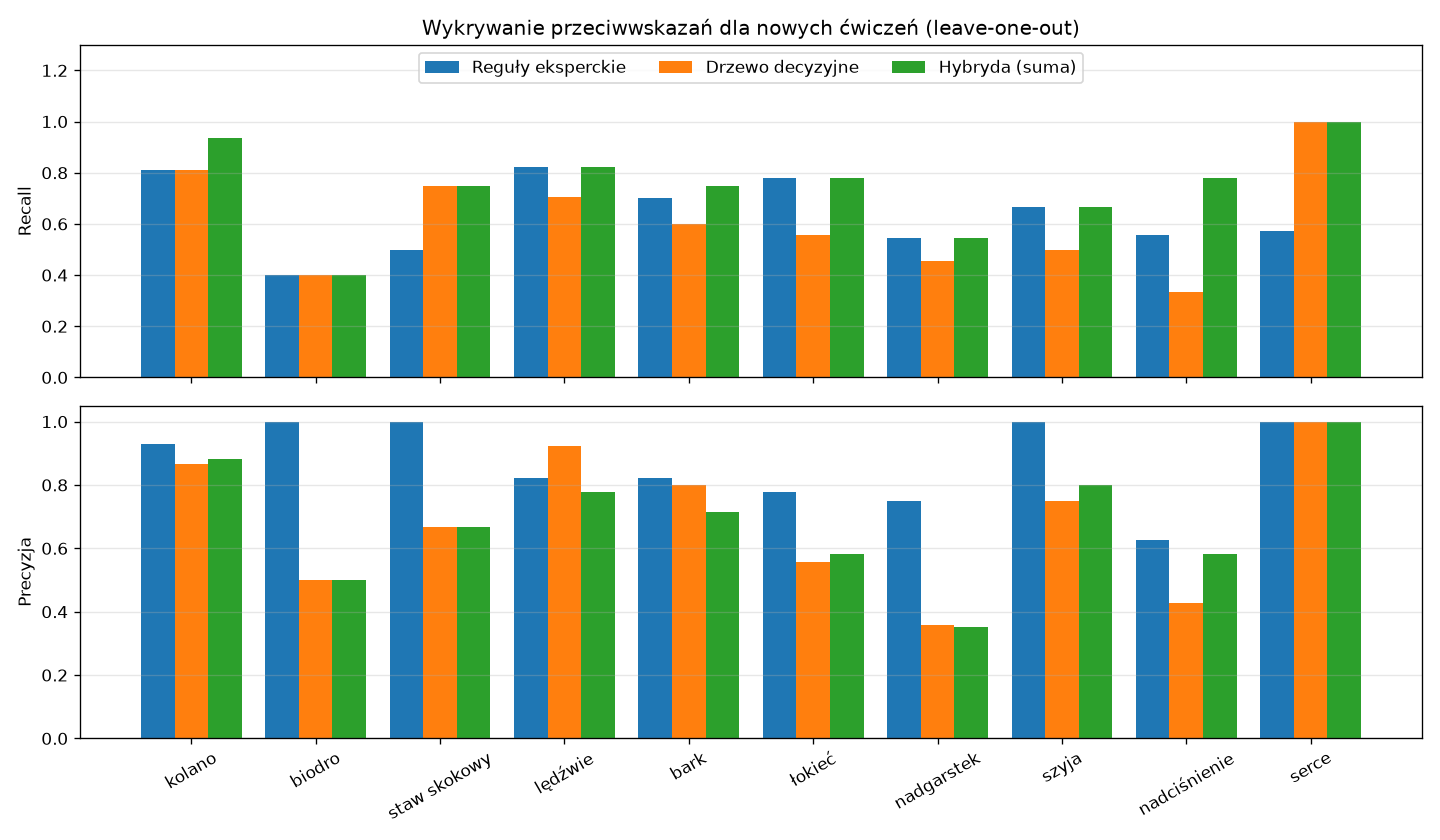
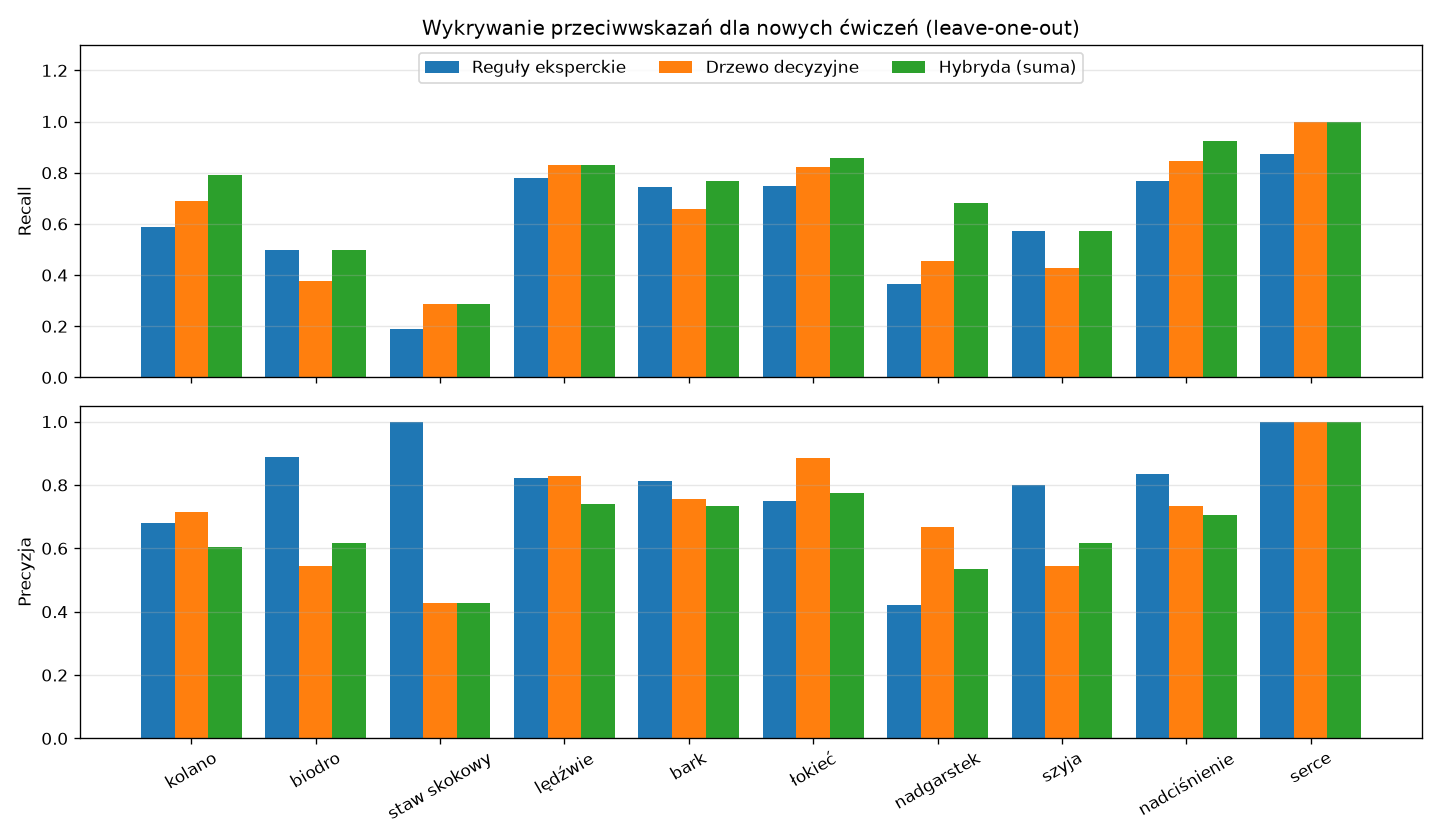
Przeliczono eksperymenty na atlasie 164 ćwiczeń (#21)

diff --git a/docs/EXPERIMENTS.md b/docs/EXPERIMENTS.md
@@ -177,11 +177,11 @@ Wyniki (`docs/experiments/significance.csv`). W komórce: metoda lepsza w danej 
 grupa mięśniowa, sprzęt, trudność), np. przy dodawaniu do atlasu nowego ćwiczenia?
 
 **Metodyka:**
-- Wzorzec: ręczne etykiety przeciwwskazań 67 ćwiczeń atlasu (`app/data/exercises.json`).
+- Wzorzec: ręczne etykiety przeciwwskazań 164 ćwiczeń atlasu (`app/data/exercises.json`).
 - Walidacja krzyżowa *leave-one-out*: każde ćwiczenie po kolei jest traktowane jak nowe,
-  a detektor uczy się na pozostałych 66.
-- Każda para (ćwiczenie, ograniczenie) to jedna decyzja binarna, łącznie 670 decyzji
-  (108 przeciwwskazań w atlasie). Metryki: precyzja, recall, F1 (mikro) oraz liczba
+  a detektor uczy się na pozostałych 163.
+- Każda para (ćwiczenie, ograniczenie) to jedna decyzja binarna, łącznie 1640 decyzji
+  (268 przeciwwskazań w atlasie). Metryki: precyzja, recall, F1 (mikro) oraz liczba
   przeoczonych przeciwwskazań i fałszywych alarmów.
 - Porównane detektory (`app/ml/contraindication_detection.py`):
   - **reguły eksperckie:** 5 reguł opartych na budowie ćwiczenia (np. przysiad → kolano,
@@ -193,27 +193,37 @@ Wyniki (`docs/experiments/contraindications.csv`):
 
 | Detektor           | Precyzja | Recall | F1    | Przeoczone | Fałszywe alarmy | Całe ćwiczenie poprawnie |
 |--------------------|----------|--------|-------|------------|-----------------|--------------------------|
-| Reguły eksperckie  | 0,839    | 0,676  | 0,749 | 35         | 14              | 46%                      |
-| Drzewo decyzyjne   | 0,701    | 0,630  | 0,663 | 40         | 29              | 39%                      |
-| Hybryda (suma)     | 0,680    | 0,769  | 0,722 | 25         | 39              | 33%                      |
+| Reguły eksperckie  | 0,784    | 0,649  | 0,710 | 94         | 48              | 45%                      |
+| Drzewo decyzyjne   | 0,755    | 0,679  | 0,715 | 86         | 59              | 44%                      |
+| Hybryda (suma)     | 0,697    | 0,754  | 0,724 | 66         | 88              | 43%                      |
 
 ![Wykrywanie przeciwwskazań](experiments/contraindications.png)
 
 **Obserwacje:**
 
-1. Reguły eksperckie mają najlepszą precyzję i F1. Przy 67 przykładach drzewo nie ma z czego
-   nauczyć się zależności, które ekspert zapisuje w kilku regułach.
-2. Drzewo wygrywa tam, gdzie zależność jest prosta i spójna w atlasie: choroba serca
-   (recall 1,00 wobec 0,57 reguł) i staw skokowy.
-3. Hybryda ma najwyższy recall (0,769, o 10 przeoczeń mniej niż reguły) kosztem precyzji.
+1. Wszystkie trzy detektory mają zbliżone F1 (0,710–0,724), żaden nie jest wyraźnie lepszy.
+   Reguły zachowują najwyższą precyzję (najmniej fałszywych alarmów), a hybryda najwyższy recall.
+2. **Wpływ rozbudowy atlasu.** W pierwszej wersji atlasu (67 ćwiczeń) reguły miały wyraźnie
+   najwyższe F1 (0,749 wobec 0,663 drzewa). Po rozbudowie do 164 ćwiczeń F1 drzewa wzrosło
+   do 0,715, bo ma więcej przykładów do nauki, a F1 reguł spadło do 0,710. Metoda ucząca się
+   zyskuje na większym zbiorze danych, a reguły zapisane raz przez eksperta nie.
+3. **Reguły słabo uogólniają się na ćwiczenia, których autor nie przewidział.** Nowe ćwiczenia
+   ujawniły luki reguł, np. reguła „ćwiczenie izolowane na nogi → kolano” nie pasuje do wspięć
+   na palce (staw skokowy) ani przywodzenia nóg (biodro). Recall reguł dla stawu skokowego
+   spadł z 0,50 do 0,19, a precyzja dla kolana z 0,93 do 0,68. Drzewo wygrywa tam, gdzie atlas
+   zawiera wiele spójnych przykładów: łokieć (F1 0,85 wobec 0,75 reguł), nadgarstek i choroba
+   serca (recall 1,00).
+4. Hybryda ma najwyższy recall (0,754, o 28 przeoczeń mniej niż reguły) kosztem precyzji.
    W kontekście bezpieczeństwa to korzystna wymiana: fałszywy alarm tylko zawęża wybór
    ćwiczeń, a przeoczenie oznacza ryzyko kontuzji.
-4. Żadna metoda nie jest wystarczająco dokładna, by działać bez człowieka: nawet hybryda
-   przeocza ok. 1/4 przeciwwskazań. Najsłabiej wykrywane są biodro i nadgarstek, które zależą
-   od szczegółów techniki, a nie od ogólnych cech ćwiczenia.
-5. Górną granicę trafności wyznaczają same dane: 14 z 67 ćwiczeń ma identyczne cechy jak inne
-   ćwiczenie, a różne przeciwwskazania (np. przysiad goblet i przysiad sumo z kettlebell
-   różnią się obciążeniem biodra). Żadna metoda oparta na tych cechach nie rozróżni ich.
+5. Żadna metoda nie jest wystarczająco dokładna, by działać bez człowieka: nawet hybryda
+   przeocza ok. 1/4 przeciwwskazań. Najsłabiej wykrywane są staw skokowy, biodro i szyja,
+   które zależą od szczegółów techniki, a nie od ogólnych cech ćwiczenia.
+6. Górną granicę trafności wyznaczają same dane: 114 ze 164 ćwiczeń ma identyczne cechy jak
+   inne ćwiczenie, a 80 z nich ma przy tym inne przeciwwskazania. Przykład: siedem izolowanych
+   ćwiczeń na nogi na maszynie dla początkujących ma te same cechy, a obciąża kolano (wyprosty,
+   uginanie nóg), biodro (przywodzenie) albo staw skokowy (wspięcia na palce). Żadna metoda oparta na tych cechach
+   nie rozróżni takich ćwiczeń; poprawa wymagałaby cech dokładniej opisujących ruch.
 
 **Wniosek projektowy:** w aplikacji detektor hybrydowy służy wyłącznie jako **podpowiedź**
 przy dodawaniu ćwiczenia (`POST /api/v1/exercises/suggest-contraindications`). Plan treningowy
@@ -229,7 +239,7 @@ w planie nie przepuszcza żadnego ćwiczenia przeciwwskazanego według atlasu.
   cel, 2–5 dni treningowych, 30–90 minut, dostępny sprzęt (każdy rodzaj z prawdopodobieństwem 50%)
   i u połowy osób jedno lub dwa ograniczenia zdrowotne.
 - Dla każdej osoby generator buduje **plan wzorcowy** (dla prawdziwego poziomu) i plan dla poziomu
-  przewidzianego przez klasyfikator. Atlas: 67 ćwiczeń z `app/data/exercises.json`.
+  przewidzianego przez klasyfikator. Atlas: 164 ćwiczenia z `app/data/exercises.json`.
 - Metryki:
   - **plan dla prawdziwego poziomu:** część osób, których plan jest identyczny z wzorcowym,
   - **plan za trudny / za łatwy:** plan zbudowany dla wyższego / niższego poziomu,
@@ -243,15 +253,15 @@ Wyniki: średnia z 5 ziaren (`docs/experiments/plan_quality.csv`).
 
 | Pominięte odpowiedzi | Klasyfikator     | Plan dla prawdziwego poziomu | Za trudny | Za łatwy | Ćwiczenie trudniejsze niż poziom | Podobieństwo ćwiczeń |
 |----------------------|------------------|------------------------------|-----------|----------|----------------------------------|----------------------|
-| 0%                   | System regułowy  | 0,806                        | 0,149     | 0,045    | 0,127                            | 0,935                |
-| 0%                   | Drzewo decyzyjne | 0,825                        | 0,081     | 0,094    | 0,067                            | 0,943                |
-| 0%                   | Sieć neuronowa   | 0,879                        | 0,061     | 0,060    | 0,051                            | 0,961                |
-| 60%                  | System regułowy  | 0,732                        | 0,125     | 0,143    | 0,104                            | 0,909                |
-| 60%                  | Drzewo decyzyjne | 0,703                        | 0,168     | 0,129    | 0,150                            | 0,901                |
-| 60%                  | Sieć neuronowa   | 0,798                        | 0,093     | 0,109    | 0,079                            | 0,933                |
-| 100%                 | System regułowy  | 0,675                        | 0,068     | 0,257    | 0,055                            | 0,886                |
-| 100%                 | Drzewo decyzyjne | 0,484                        | 0,315     | 0,200    | 0,292                            | 0,820                |
-| 100%                 | Sieć neuronowa   | 0,648                        | 0,180     | 0,172    | 0,161                            | 0,882                |
+| 0%                   | System regułowy  | 0,806                        | 0,149     | 0,045    | 0,127                            | 0,928                |
+| 0%                   | Drzewo decyzyjne | 0,825                        | 0,081     | 0,094    | 0,067                            | 0,938                |
+| 0%                   | Sieć neuronowa   | 0,879                        | 0,061     | 0,060    | 0,051                            | 0,957                |
+| 60%                  | System regułowy  | 0,732                        | 0,125     | 0,143    | 0,104                            | 0,900                |
+| 60%                  | Drzewo decyzyjne | 0,703                        | 0,168     | 0,129    | 0,150                            | 0,891                |
+| 60%                  | Sieć neuronowa   | 0,798                        | 0,093     | 0,109    | 0,079                            | 0,926                |
+| 100%                 | System regułowy  | 0,675                        | 0,068     | 0,257    | 0,056                            | 0,875                |
+| 100%                 | Drzewo decyzyjne | 0,484                        | 0,315     | 0,200    | 0,292                            | 0,802                |
+| 100%                 | Sieć neuronowa   | 0,648                        | 0,180     | 0,172    | 0,161                            | 0,871                |
 
 We wszystkich przebiegach liczba ćwiczeń przeciwwskazanych wyniosła **0**.
 
@@ -263,7 +273,10 @@ We wszystkich przebiegach liczba ćwiczeń przeciwwskazanych wyniosła **0**.
    obowiązkowym, a filtr przeciwwskazań działa niezależnie od klasyfikatora, więc żaden plan nie
    zawierał ćwiczenia przeciwwskazanego, nawet przy błędnie wyznaczonym poziomie.
 2. **Błędny poziom zmienia plan w niewielkim stopniu.** Nawet przy samych danych podstawowych
-   plany mają 82–89% wspólnych ćwiczeń z planem wzorcowym. Ćwiczenia dla poziomu niższego są
+   plany mają 80–88% wspólnych ćwiczeń z planem wzorcowym. Po rozbudowie atlasu z 67 do 164
+   ćwiczeń podobieństwo spadło tylko o 0,4–1,8 punktu procentowego: przy większym wyborze
+   ćwiczeń zmiana poziomu częściej podmienia ćwiczenie na inne, ale trafność poziomu i odsetki
+   planów za trudnych i za łatwych są identyczne, bo zależą tylko od klasyfikatora. Ćwiczenia dla poziomu niższego są
    dostępne także na wyższych poziomach, więc pomyłka o jeden poziom zmienia tylko część ćwiczeń
    (i liczbę serii u początkujących).
 3. **Kierunek błędu zależy od metody.** System regułowy przy brakach danych częściej zaniża poziom
@@ -276,7 +289,8 @@ We wszystkich przebiegach liczba ćwiczeń przeciwwskazanych wyniosła **0**.
 
 **Wniosek projektowy:** przy kompletnych danych najlepsze plany daje sieć neuronowa, a przy
 bardzo niekompletnych system regułowy, który myli się „w bezpieczną stronę”. Uzasadnia to
-domyślny wybór sieci neuronowej i informowanie użytkownika o niskiej kompletności danych.
+dobór klasyfikatora do liczby pustych odpowiedzi w aplikacji: sieć neuronowa, a przy samych
+danych podstawowych system regułowy (opis w [ML.md](ML.md#uczenie-i-wyniki-wstępne)).
 
 ## Czas odpowiedzi API
 
@@ -286,7 +300,7 @@ klasyfikacja, generowanie planu i zamiana wyniku na JSON.
 
 **Metodyka** (`experiments/api_latency.py`):
 - Kompletny profil (wszystkie testy sprawności, ograniczenie kolana, 4 dni treningowe, sprzęt),
-  atlas 67 ćwiczeń w bazie SQLite.
+  atlas 164 ćwiczeń w bazie SQLite.
 - Dla każdego endpointu 5 żądań rozgrzewkowych (wczytanie modeli z dysku, połączenie), które nie
   są liczone, a potem właściwy pomiar.
 - Miary: średnia, mediana (p50), 95. percentyl (p95: 95% żądań było szybszych) i maksimum.
@@ -294,41 +308,52 @@ klasyfikacja, generowanie planu i zamiana wyniku na JSON.
   - **lokalnie:** aplikacja w tym samym procesie, bez sieci (200 żądań na endpoint),
     czyli czas pracy samego serwera,
   - **wdrożenie:** aplikacja na Render (plan darmowy, Frankfurt), żądania z komputera w Polsce
-    (30 żądań na endpoint, pomiar z 21.10.2026), czyli czas widziany przez użytkownika.
+    (30 żądań na endpoint, pomiar z 8.11.2026), czyli czas widziany przez użytkownika.
 
 Wyniki lokalne (`docs/experiments/api_latency.csv`), w milisekundach:
 
 | Żądanie                                   | Średnia | p50  | p95  | Maks. |
 |-------------------------------------------|---------|------|------|-------|
-| `GET /health`                             | 0,79    | 0,76 | 0,92 | 1,45  |
-| `GET /api/v1/questionnaire`               | 0,83    | 0,80 | 1,00 | 1,24  |
-| `POST /api/v1/questionnaire`              | 1,86    | 1,72 | 2,30 | 8,82  |
-| `GET .../fitness-level?method=rules`      | 1,74    | 1,68 | 1,96 | 3,17  |
-| `GET .../fitness-level?method=decision_tree` | 2,83 | 2,68 | 3,79 | 5,42  |
-| `GET .../fitness-level?method=mlp`        | 3,24    | 2,94 | 4,56 | 7,98  |
-| `GET .../plan?method=mlp`                 | 4,29    | 4,08 | 5,33 | 6,41  |
+| `GET /health`                             | 0,76    | 0,76 | 0,83 | 1,37  |
+| `GET /api/v1/questionnaire`               | 0,81    | 0,80 | 0,89 | 0,98  |
+| `POST /api/v1/questionnaire`              | 1,68    | 1,66 | 1,84 | 2,14  |
+| `GET .../fitness-level?method=rules`      | 1,71    | 1,68 | 1,93 | 2,22  |
+| `GET .../fitness-level?method=decision_tree` | 2,73 | 2,67 | 3,13 | 4,57  |
+| `GET .../fitness-level?method=mlp`        | 2,91    | 2,86 | 3,19 | 3,82  |
+| `GET .../plan?method=mlp`                 | 5,25    | 4,99 | 5,78 | 37,50 |
 
 Wyniki dla wdrożenia, w milisekundach:
 
 | Żądanie                                   | Średnia | p50  | p95   | Maks. |
 |-------------------------------------------|---------|------|-------|-------|
-| `GET /health`                             | 60      | 53   | 124   | 137   |
-| `POST /api/v1/questionnaire`              | 68      | 59   | 134   | 150   |
-| `GET .../fitness-level?method=rules`      | 63      | 55   | 122   | 141   |
-| `GET .../fitness-level?method=mlp`        | 96      | 65   | 182   | 431   |
-| `GET .../plan?method=mlp`                 | 100     | 96   | 171   | 228   |
+| `GET /health`                             | 66      | 53   | 140   | 148   |
+| `GET /api/v1/questionnaire`               | 59      | 52   | 106   | 137   |
+| `POST /api/v1/questionnaire`              | 64      | 57   | 117   | 130   |
+| `GET .../fitness-level?method=rules`      | 63      | 54   | 123   | 145   |
+| `GET .../fitness-level?method=decision_tree` | 74   | 59   | 141   | 147   |
+| `GET .../fitness-level?method=mlp`        | 80      | 70   | 133   | 138   |
+| `GET .../plan?method=mlp`                 | 146     | 99   | 380   | 817   |
+
+Powtórzony pomiar dał dla planu podobny wynik: mediana 106 ms, p95 285 ms, maksimum 333 ms.
 
 **Obserwacje:**
 
 1. Najcięższe żądanie, wygenerowanie planu z klasyfikacją siecią neuronową, zajmuje serwerowi
-   ok. 4 ms (p95 ok. 5 ms). Klasyfikacja sieci to ok. 0,5 ms (eksperyment 1), a resztę zajmują
-   baza danych, generowanie planu i obsługa HTTP.
+   ok. 5 ms (p95 ok. 6 ms). Klasyfikacja sieci to ok. 0,5 ms (eksperyment 1), a resztę zajmują
+   baza danych, generowanie planu i obsługa HTTP. Po rozbudowie atlasu z 67 do 164 ćwiczeń
+   czas planu wzrósł z ok. 4,3 do 5,3 ms, bo generator filtruje i układa więcej ćwiczeń.
+   Pojedyncze żądanie trwające 37,5 ms to jednorazowe opóźnienie (prawdopodobnie po stronie
+   systemu operacyjnego lub odśmiecania pamięci), a nie stała cecha endpointu: 95% żądań trwało poniżej 6 ms.
 2. Po wdrożeniu czas odpowiedzi to ok. 50–100 ms (mediana), z czego większość to sieć i serwer
-   z planu darmowego (pusty `GET /health` trwa ok. 53 ms). Wszystkie żądania mieszczą się poniżej
-   0,5 s, a 95% poniżej 0,2 s, czyli poniżej progu, który użytkownik odbiera jako natychmiastową
-   reakcję interfejsu (ok. 0,1–1 s).
-3. Wybór klasyfikatora praktycznie nie wpływa na czas odpowiedzi: różnica między regułami a siecią
-   to ok. 1,5 ms lokalnie i mieści się w zmienności sieci po wdrożeniu.
+   z planu darmowego (pusty `GET /health` trwa ok. 53 ms). Wszystkie żądania mieszczą się
+   poniżej 1 s, a 95% żądań poza planem w ok. 0,15 s, czyli w granicach, które użytkownik
+   odbiera jako natychmiastową reakcję interfejsu (ok. 0,1–1 s).
+3. Plan treningowy ma po wdrożeniu wyraźnie dłuższy „ogon” niż lokalnie (p95 0,3–0,4 s,
+   maksimum 0,8 s). Lokalnie plan jest tylko ok. 2 ms wolniejszy od klasyfikacji, więc różnicę
+   najprawdopodobniej tłumaczy słabszy, współdzielony procesor serwera w planie darmowym,
+   na którym praca generatora trwa wielokrotnie dłużej. Wybór klasyfikatora praktycznie nie wpływa na czas
+   odpowiedzi: różnica między regułami a siecią to ok. 1 ms lokalnie i mieści się w zmienności
+   sieci po wdrożeniu.
 4. Wyjątkiem jest pierwsze żądanie po uśpieniu serwera w planie darmowym (start kontenera,
    ok. 1 minuty). To ograniczenie planu hostingu, a nie aplikacji: w planie płatnym serwer
    nie jest usypiany.

diff --git a/docs/ZRODLA.md b/docs/ZRODLA.md
@@ -24,7 +24,7 @@ Priorytety:
 | A6 | `app/ml/contraindication_detection.py:76` | podpór na dłoniach → nadgarstek | reguła 3 | jak A4; najlepiej opinia fizjoterapeuty |
 | A7 | `app/ml/contraindication_detection.py:82` | ciężkie ćwiczenia ze sztangą → lędźwie, nadciśnienie | reguła 4 (wzrost ciśnienia przy dużym ciężarze) | MacDougall i in., *Arterial blood pressure response to heavy resistance exercise*, J Appl Physiol 1985; Pescatello i in., ACSM Position Stand *Exercise and hypertension*, MSSE 2004 |
 | A8 | `app/ml/contraindication_detection.py:85` | intensywne cardio → nadciśnienie | reguła 5 | Pescatello i in. 2004 (jak A7) |
-| A9 | `app/data/exercises.json` | 268 przeciwwskazań w 164 ćwiczeniach | etykiety atlasu są wzorcem w eksperymencie 3 (policzonym na 67 ćwiczeniach) | najlepiej przegląd przez fizjoterapeutę; ewentualnie Kisner, Colby (jak A4) |
+| A9 | `app/data/exercises.json` | 268 przeciwwskazań w 164 ćwiczeniach | etykiety atlasu są wzorcem w eksperymencie 3 | najlepiej przegląd przez fizjoterapeutę; ewentualnie Kisner, Colby (jak A4) |
 
 ## B. Normy sprawności i zasady treningu
 
